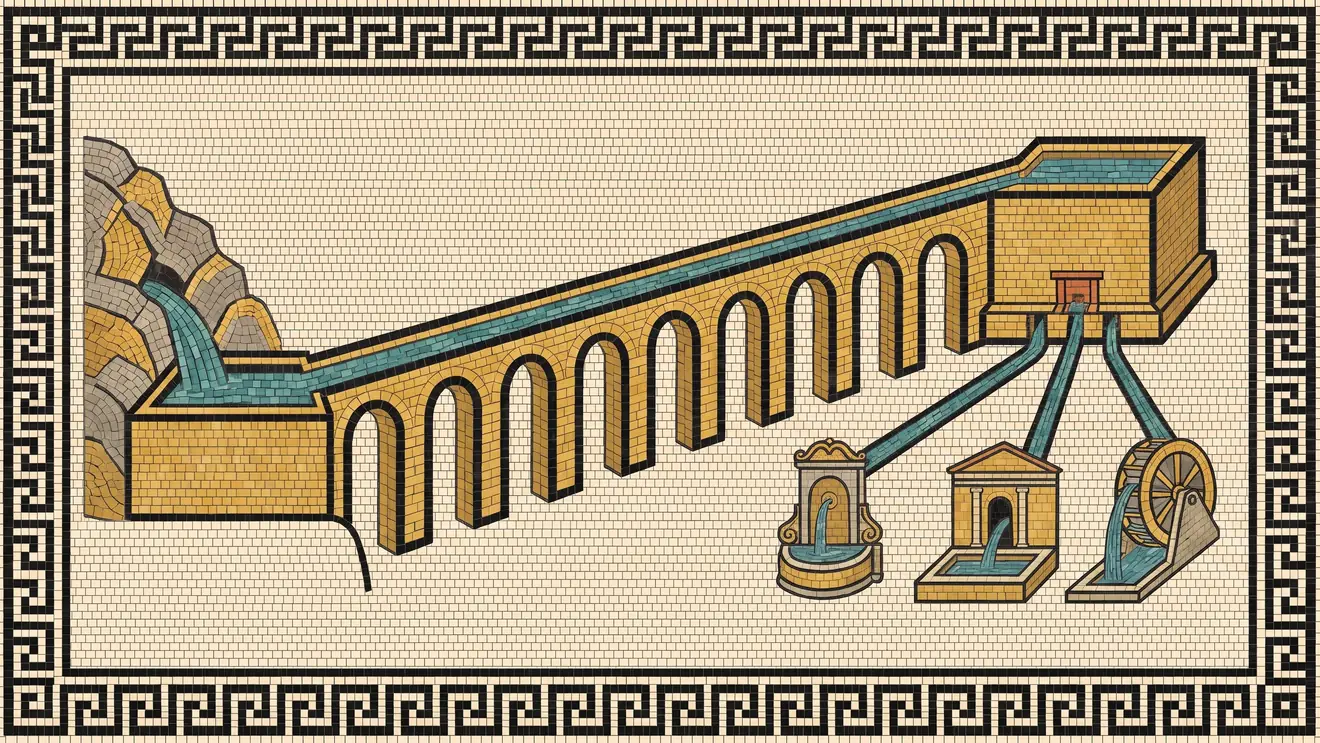
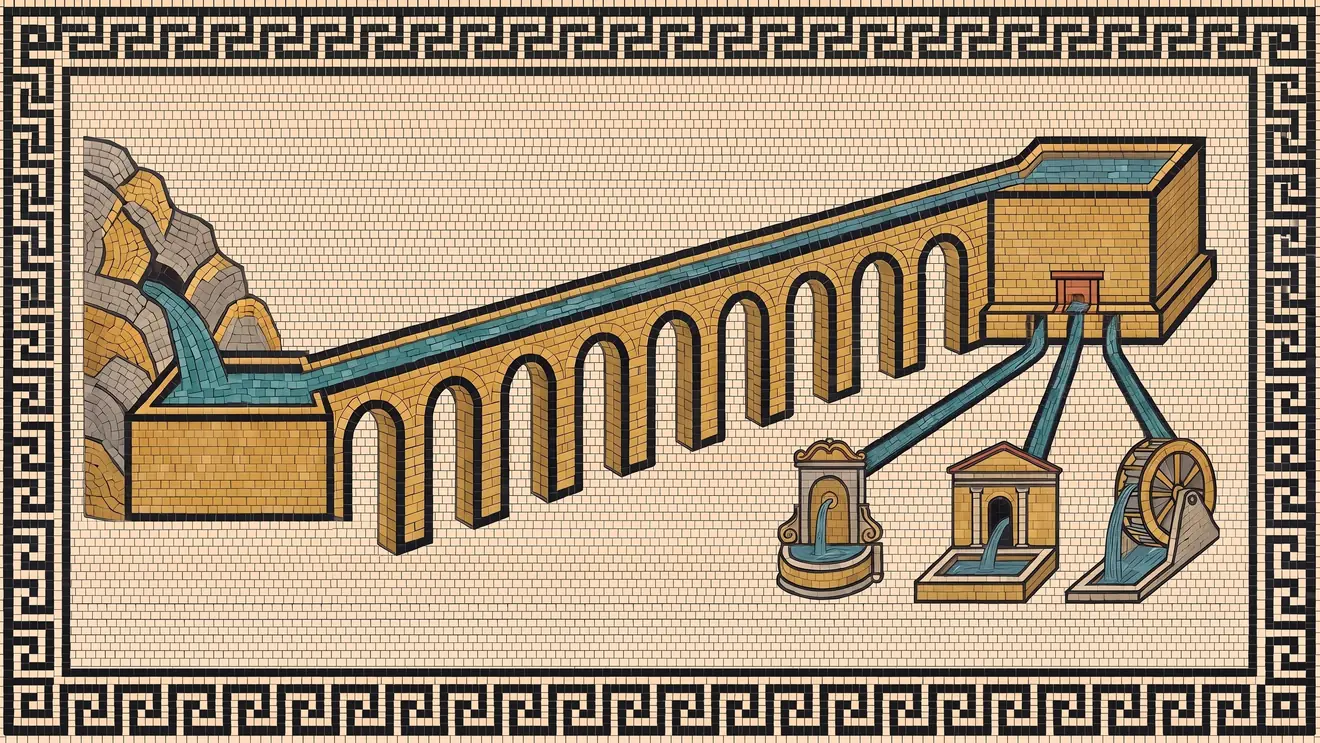
site(blog): guide 7, fixes from the visual pass
From a visual pass over every page, figure, card and hero in the cluster:

- the figure's tool list and the "change applies" line no longer run past their boxes
- the hero loses a stray black line under the first arch
- the cost table names the test account in words instead of a code span that broke mid-word
- American spelling throughout
- the share card's byline clears the footer (the card generator fix on the base branch)

Refs #431

Changed region(s): [[0.0, 0.0, 1.0, 1.0], [0.4348, 0.9906, 0.4659, 1.0]]

diff --git a/site/blog/ai-agents-for-marketing.html b/site/blog/ai-agents-for-marketing.html
@@ -42,7 +42,7 @@
   "datePublished": "2026-12-15T00:00:00+00:00",
   "dateModified": "2026-12-15T00:00:00+00:00",
   "articleSection": "Guide",
-  "wordCount": 2255,
+  "wordCount": 2256,
   "author": {
     "@type": "Person",
     "name": "Shirish Kadam",
@@ -410,7 +410,7 @@
 <tbody>
 <tr><td>The Monday read of ads, analytics and billing</td><td>✓</td><td></td><td></td><td>three tools, one question, and the answer changes every week</td></tr>
 <tr><td>"Why did signups drop last week"</td><td>✓</td><td></td><td></td><td>the cause is in a tool you did not think to open</td></tr>
-<tr><td>Keyword gap from Search Console</td><td>✓</td><td></td><td></td><td>a comparison that is tedious by hand and needs judgement about intent</td></tr>
+<tr><td>Keyword gap from Search Console</td><td>✓</td><td></td><td></td><td>a comparison that is tedious by hand and needs judgment about intent</td></tr>
 <tr><td>Pausing a campaign at a spend cap</td><td></td><td>✓</td><td></td><td>a fixed rule; an agent adds nothing but latency</td></tr>
 <tr><td>Posting the weekly numbers to Slack</td><td></td><td>✓</td><td></td><td>once the brief exists, delivery is a pipe</td></tr>
 <tr><td>Changing a bid, a budget or an audience</td><td>proposes</td><td></td><td>approves</td><td>reversible, but it spends money; a person signs</td></tr>
@@ -435,7 +435,7 @@
 <table>
 <thead><tr><th scope="col">What</th><th scope="col">Model</th><th scope="col">Median cost per run</th><th scope="col">Model calls</th><th scope="col">Recorded</th></tr></thead>
 <tbody>
-<tr><td>One weekly brief, the eval case <code>solo-organic-slip</code></td><td>DeepSeek V4 Flash via OpenRouter</td><td>$0.0052</td><td>4</td><td>18 trials, Sep 30 2026</td></tr>
+<tr><td>One weekly brief, on the synthetic test account</td><td>DeepSeek V4 Flash via OpenRouter</td><td>$0.0052</td><td>4</td><td>18 trials, Sep 30 2026</td></tr>
 </tbody>
 </table>
 </div>

diff --git a/site/blog/posts/ai-agents-for-marketing.md b/site/blog/posts/ai-agents-for-marketing.md
@@ -43,7 +43,7 @@ The three-question test from the [agent vs chatbot vs automation](/blog/ai-agent
 |---|---|---|---|---|
 | The Monday read of ads, analytics and billing | ✓ | | | three tools, one question, and the answer changes every week |
 | "Why did signups drop last week" | ✓ | | | the cause is in a tool you did not think to open |
-| Keyword gap from Search Console | ✓ | | | a comparison that is tedious by hand and needs judgement about intent |
+| Keyword gap from Search Console | ✓ | | | a comparison that is tedious by hand and needs judgment about intent |
 | Pausing a campaign at a spend cap | | ✓ | | a fixed rule; an agent adds nothing but latency |
 | Posting the weekly numbers to Slack | | ✓ | | once the brief exists, delivery is a pipe |
 | Changing a bid, a budget or an audience | proposes | | approves | reversible, but it spends money; a person signs |
@@ -76,7 +76,7 @@ The one number I can stand behind is measured, not estimated. Duct's eval gate r
 
 | What | Model | Median cost per run | Model calls | Recorded |
 |---|---|---|---|---|
-| One weekly brief, the eval case `solo-organic-slip` | DeepSeek V4 Flash via OpenRouter | $0.0052 | 4 | 18 trials, Sep 30 2026 |
+| One weekly brief, on the synthetic test account | DeepSeek V4 Flash via OpenRouter | $0.0052 | 4 | 18 trials, Sep 30 2026 |
 
 The source is the [eval baselines file](https://github.com/5hirish/duct/blob/main/backend/tests/eval/baselines.json) in the repository. The honest half of the row is the column it leaves out: that case passes its own checks 77.8% of the time on that model, which is why the cheapest rung is for memory and recaps, not for the brief you act on. On the default Gemini ladder a brief runs on Flash, and I do not yet have a published baseline for it, so I will not quote one. The [harness engineering](/blog/what-is-harness-engineering) post has the wider point: the cheaper the model, the more the code around it decides the result.
 
